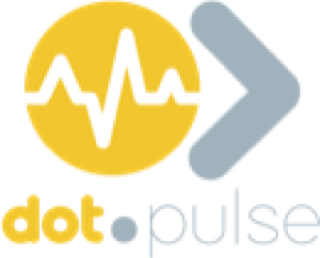
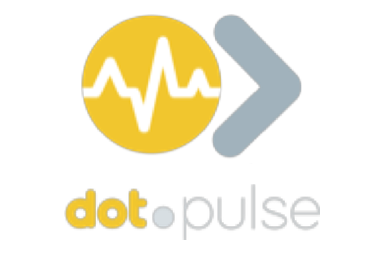
R-58: a different South African photograph for every slot (#247)
* R-58: give every page its own South African photograph (no reuse); credits for all on the About page

* R-58: show a Cape Town produce stall, a real trading scene, in place of the Soweto street photo

* R-58: make the platform logos readable: lift only the wordmark pixels, keep brand colours, deeper tiles, two per row

* R-58: every platform logo at the same scale on the same canvas: equal icon, equal wordmark, round Tutor disc, no stretch or squeeze

* R-58: the build check expects the new home hero photographs

---------

diff --git a/resources/css/infodot.css b/resources/css/infodot.css
@@ -9778,8 +9778,8 @@ button.ix-avatar,
 .bt-tool__id img {
     display: block;
     width: auto;
-    height: 40px;
-    max-width: 170px;
+    height: 72px;
+    max-width: 120px;
     object-fit: contain;
 }
 
@@ -10629,9 +10629,11 @@ button.ix-avatar,
 .hp-pillar--grow .hp-pillar__plate { background-image: var(--pillar-img, none); background-size: cover; background-position: center; }
 
 /* The platform logos have thin, pale wordmarks: bigger tiles and a lift in brightness let every name read at full strength on the graphite ground. */
-.hp-group .lp-logos { grid-template-columns: repeat(auto-fill, minmax(150px, 1fr)); }
-.hp-group .lp-logos li { height: 104px; }
-.hp-group .lp-logos img { filter: brightness(1.35) contrast(1.08); }
+.hp-group .lp-logos { grid-template-columns: repeat(auto-fill, minmax(150px, 1fr)); gap: 14px; }
+/* Every logo file is drawn on the same canvas at the same scale (round icon, same-size wordmark), so each tile just shows the file at its natural proportions: nothing is stretched or squeezed. */
+.hp-group .lp-logos li { height: auto; aspect-ratio: 3 / 2; background: #080b0d; box-shadow: inset 0 0 0 1px rgb(255 255 255 / 0.08); transition: box-shadow 0.2s ease, translate 0.2s ease; }
+.hp-group .lp-logos li:hover { box-shadow: inset 0 0 0 1px #eab31f; translate: 0 -2px; }
+.hp-group .lp-logos img { top: 6px; right: 6px; bottom: 6px; left: 6px; width: calc(100% - 12px); height: calc(100% - 12px); object-fit: contain; filter: none; }
 
 /* Links in running text read as links: underlined at rest, in the page's own link colour. */
 .ix-prose p a,

diff --git a/resources/views/about.blade.php b/resources/views/about.blade.php
@@ -5,7 +5,7 @@
         <p class="ix-lede" data-pg-in>InfoDot helps people start, manage and grow their businesses. It brings together practical business knowledge, people who share what works, and digital tools in one place, so nobody has to work it all out alone.</p>
 
         <figure class="pg-strip" data-pg-photo>
-            <img src="{{ \Illuminate\Support\Facades\Vite::asset('resources/img/landing/seamstress.jpg') }}" alt="A seamstress at her sewing machine in a shop full of printed fabric" width="1200" height="800" loading="eager" decoding="async">
+            <img src="{{ \Illuminate\Support\Facades\Vite::asset('resources/img/landing/market.jpg') }}" alt="Colourful shirts and dresses hanging at a market stall in Cape Town" width="1400" height="1050" loading="eager" decoding="async">
         </figure>
 
         <h2>Why it exists</h2>
@@ -35,19 +35,25 @@
         </ul>
 
         <h2 id="photo-credits">Photograph credits</h2>
-        <p>Some photographs on the Contact, Businesses, home and What InfoDot does pages come from Unsplash and are used under the <a href="https://unsplash.com/license" rel="noopener">Unsplash licence</a>. Each was cropped and resized.</p>
+        <p>Every photograph on InfoDot was taken in South Africa. Most come from Unsplash and are used under the <a href="https://unsplash.com/license" rel="noopener">Unsplash licence</a>; one comes from Wikimedia Commons. Each was cropped and resized. Where each one appears is noted after its title.</p>
         <ul>
-            <li><a href="https://unsplash.com/photos/woman-using-laptop-in-workspace-HA-0i0E7sq4" rel="noopener">Woman using laptop in workspace</a> by Daniel Thomas</li>
-            <li><a href="https://unsplash.com/photos/a-group-of-colorful-bags-sitting-on-top-of-a-table-9o5zeS6QbgM" rel="noopener">Rosebank Sunday Market in Johannesburg</a> by Vije Vijendranath</li>
-            <li><a href="https://unsplash.com/photos/two-women-near-tables-GFrBMipOd_E" rel="noopener">Two women near tables</a> by Blake Wisz</li>
-            <li><a href="https://unsplash.com/photos/a-person-sitting-at-a-table-with-a-laptop-oUbzU87d1Gc" rel="noopener">A person sitting at a table with a laptop</a> by Microsoft 365</li>
+            <li><a href="https://unsplash.com/photos/a-group-of-colorful-bags-sitting-on-top-of-a-table-9o5zeS6QbgM" rel="noopener">Rosebank Sunday Market, Johannesburg</a> by Vije Vijendranath (home page)</li>
+            <li><a href="https://unsplash.com/photos/johannesburg-skyline-at-golden-hour-_h-L45TSmGM" rel="noopener">Johannesburg skyline at golden hour</a> by Simon Hurry (home page)</li>
+            <li><a href="https://unsplash.com/photos/ODZIiIsn490" rel="noopener">Bo-Kaap, Cape Town</a> by Devon Janse van Rensburg (home page)</li>
+            <li><a href="https://unsplash.com/photos/tCLU5Ofe-Dg" rel="noopener">Kalk Bay Trading Post sign</a> by ryan mayes (home page)</li>
+            <li><a href="https://unsplash.com/photos/2GZvGZh4dJc" rel="noopener">Vineyard rows near Stellenbosch</a> by Nenad Gataric (home page)</li>
+            <li><a href="https://unsplash.com/photos/C77n2yK8brk" rel="noopener">Goods market, Cape Town</a> by FitNish Media (home page)</li>
+            <li><a href="https://unsplash.com/photos/y0njljTYxHA" rel="noopener">Market stall, Cape Town</a> by FitNish Media (home page)</li>
+            <li><a href="https://unsplash.com/photos/ime_dBOnmwY" rel="noopener">Fishing boats at Kalk Bay</a> by M Lagan (home page)</li>
+            <li><a href="https://unsplash.com/photos/mQ2mZMcI1dc" rel="noopener">Produce stall, Cape Town market</a> by FitNish Media (home page)</li>
+            <li><a href="https://unsplash.com/photos/hgm1xkVxsX0" rel="noopener">Outdoor cafe, Cape Town</a> by Mario Scheibl (Contact)</li>
+            <li><a href="https://unsplash.com/photos/NLVj-FTLwu4" rel="noopener">Stained glass door at a Cape Town market</a> by Amy Harrison (Businesses)</li>
+            <li><a href="https://unsplash.com/photos/xvJVDUoGpoU" rel="noopener">Johannesburg views</a> by Clodagh Da Paixao (What InfoDot does)</li>
+            <li><a href="https://unsplash.com/photos/D4l8jOd-7jI" rel="noopener">Bo-Kaap street and mural</a> by Nigel SB Photography (Questions people ask)</li>
         </ul>
-        <p>The other photographs, on the home and About pages, come from Wikimedia Commons. Each was cropped and resized, and each is shared under the Creative Commons Attribution-ShareAlike 4.0 licence (<a href="https://creativecommons.org/licenses/by-sa/4.0/" rel="noopener">CC BY-SA 4.0</a>).</p>
+        <p>On the home page and About page, one photograph comes from Wikimedia Commons under the Creative Commons Attribution-ShareAlike 4.0 licence (<a href="https://creativecommons.org/licenses/by-sa/4.0/" rel="noopener">CC BY-SA 4.0</a>):</p>
         <ul>
-            <li><a href="https://commons.wikimedia.org/wiki/File:Openspace_wao_coworking.jpg" rel="noopener">"Openspace wao coworking"</a> by WAO Coworking</li>
-            <li><a href="https://commons.wikimedia.org/wiki/File:A_seamstress_at_work.jpg" rel="noopener">"A seamstress at work"</a> by Rwebogora</li>
-            <li><a href="https://commons.wikimedia.org/wiki/File:Couturi%C3%A8re_3.jpg" rel="noopener">"Couturière 3"</a> by Metchyves</li>
-            <li><a href="https://commons.wikimedia.org/wiki/File:Greenmarket,_Cape_Town_(P1050987).jpg" rel="noopener">"Greenmarket, Cape Town"</a> by Matti Blume</li>
+            <li><a href="https://commons.wikimedia.org/wiki/File:Greenmarket,_Cape_Town_(P1050987).jpg" rel="noopener">"Greenmarket, Cape Town"</a> by Matti Blume (About)</li>
         </ul>
 
         <h2>Get in touch</h2>

diff --git a/resources/views/partials/home-hero.blade.php b/resources/views/partials/home-hero.blade.php
@@ -1,7 +1,7 @@
 <section class="lp-hero hd" data-hd data-scene="b" aria-labelledby="hero-title">
     <div class="hd__stage" aria-hidden="true">
         <div class="hd__scene hd__scene--a" data-scene-id="a">
-            <img src="{{ \Illuminate\Support\Facades\Vite::asset('resources/img/pages/directory-1600.jpg') }}" srcset="{{ \Illuminate\Support\Facades\Vite::asset('resources/img/pages/directory-800.jpg') }} 800w, {{ \Illuminate\Support\Facades\Vite::asset('resources/img/pages/directory-1600.jpg') }} 1600w" sizes="100vw" alt="" width="1600" height="1067" decoding="async">
+            <img src="{{ \Illuminate\Support\Facades\Vite::asset('resources/img/pages/jhb-skyline-1920.jpg') }}" srcset="{{ \Illuminate\Support\Facades\Vite::asset('resources/img/pages/jhb-skyline-960.jpg') }} 960w, {{ \Illuminate\Support\Facades\Vite::asset('resources/img/pages/jhb-skyline-1920.jpg') }} 1920w" sizes="100vw" alt="" width="1920" height="1280" decoding="async">
         </div>
         <div class="hd__scene hd__scene--b" data-scene-id="b">
             <div class="hd__ground">
@@ -9,15 +9,15 @@
                 <span class="ix-stamp hd__stamp">Solved</span>
             </div>
             <figure class="hd__photo">
-                <img src="{{ \Illuminate\Support\Facades\Vite::asset('resources/img/pages/directory-1600.jpg') }}" srcset="{{ \Illuminate\Support\Facades\Vite::asset('resources/img/pages/directory-800.jpg') }} 800w, {{ \Illuminate\Support\Facades\Vite::asset('resources/img/pages/directory-1600.jpg') }} 1600w" sizes="(max-width: 900px) 100vw, 50vw" alt="" width="1600" height="1067" decoding="async" fetchpriority="high">
+                <img src="{{ \Illuminate\Support\Facades\Vite::asset('resources/img/pages/rosebank-1600.jpg') }}" srcset="{{ \Illuminate\Support\Facades\Vite::asset('resources/img/pages/rosebank-800.jpg') }} 800w, {{ \Illuminate\Support\Facades\Vite::asset('resources/img/pages/rosebank-1600.jpg') }} 1600w" sizes="(max-width: 900px) 100vw, 50vw" alt="" width="1600" height="1067" decoding="async" fetchpriority="high">
             </figure>
         </div>
         <div class="hd__scene hd__scene--c" data-scene-id="c">
             <div class="hd__ground"></div>
             <ul class="hd__tiles" role="presentation">
-                <li class="hd__tile hd__tile--1"><img src="{{ \Illuminate\Support\Facades\Vite::asset('resources/img/pages/features-800.jpg') }}" alt="" width="800" height="533" decoding="async"><span class="pg-plate" style="--pg-tone: var(--ix-knowledge)">Discover</span></li>
-                <li class="hd__tile hd__tile--2"><img src="{{ \Illuminate\Support\Facades\Vite::asset('resources/img/pages/directory-800.jpg') }}" alt="" width="800" height="533" decoding="async"><span class="pg-plate pg-plate--mustard" style="--pg-tone: var(--ix-platforms)">Manage</span></li>
-                <li class="hd__tile hd__tile--3"><img src="{{ \Illuminate\Support\Facades\Vite::asset('resources/img/landing/seamstress.jpg') }}" alt="" width="1200" height="800" decoding="async"><span class="pg-plate" style="--pg-tone: var(--ix-documents)">Grow</span></li>
+                <li class="hd__tile hd__tile--1"><img src="{{ \Illuminate\Support\Facades\Vite::asset('resources/img/pages/bokaap-street-800.jpg') }}" alt="" width="800" height="533" decoding="async"><span class="pg-plate" style="--pg-tone: var(--ix-knowledge)">Discover</span></li>
+                <li class="hd__tile hd__tile--2"><img src="{{ \Illuminate\Support\Facades\Vite::asset('resources/img/pages/kalkbay-sign-800.jpg') }}" alt="" width="800" height="533" decoding="async"><span class="pg-plate pg-plate--mustard" style="--pg-tone: var(--ix-platforms)">Manage</span></li>
+                <li class="hd__tile hd__tile--3"><img src="{{ \Illuminate\Support\Facades\Vite::asset('resources/img/pages/vineyard-800.jpg') }}" alt="" width="800" height="533" decoding="async"><span class="pg-plate" style="--pg-tone: var(--ix-documents)">Grow</span></li>
             </ul>
         </div>
     </div>

diff --git a/resources/views/welcome.blade.php b/resources/views/welcome.blade.php
@@ -54,7 +54,7 @@
 
         <div class="hp-pillars__list">
             <article class="hp-pillar hp-pillar--discover" id="discover" data-pillar aria-labelledby="discover-title">
-                <h3 id="discover-title" class="hp-pillar__plate" style="--pillar-img: url('{{ \Illuminate\Support\Facades\Vite::asset('resources/img/pages/features-800.jpg') }}')"><span class="hp-pillar__word">Discover</span><span class="hp-pillar__tag">Learn what works</span></h3>
+                <h3 id="discover-title" class="hp-pillar__plate" style="--pillar-img: url('{{ \Illuminate\Support\Facades\Vite::asset('resources/img/pages/market-jars-800.jpg') }}')"><span class="hp-pillar__word">Discover</span><span class="hp-pillar__tag">Learn what works</span></h3>
                 <div class="hp-pillar__body">
                     <p class="hp-pillar__lede" data-reveal>Find practical answers, business guides, proven solutions and experiences shared by other entrepreneurs and businesses.</p>
                     <ul class="lp-checks hp-pillar__list">
@@ -81,7 +81,7 @@
             </article>
 
             <article class="hp-pillar hp-pillar--manage" id="manage" data-pillar aria-labelledby="manage-title">
-                <h3 id="manage-title" class="hp-pillar__plate" style="--pillar-img: url('{{ \Illuminate\Support\Facades\Vite::asset('resources/img/pages/pillar-manage-800.jpg') }}')"><span class="hp-pillar__word">Manage</span><span class="hp-pillar__tag">Run your business</span></h3>
+                <h3 id="manage-title" class="hp-pillar__plate" style="--pillar-img: url('{{ \Illuminate\Support\Facades\Vite::asset('resources/img/pages/market-burger-800.jpg') }}')"><span class="hp-pillar__word">Manage</span><span class="hp-pillar__tag">Run your business</span></h3>
                 <div class="hp-pillar__body">
                     <p class="hp-pillar__lede" data-reveal>Access the digital tools you need to organise, manage and operate your business from one connected ecosystem.</p>
                     <ul class="lp-checks hp-pillar__list">
@@ -98,7 +98,7 @@
             </article>
 
             <article class="hp-pillar hp-pillar--grow" id="grow" data-pillar aria-labelledby="grow-title">
-                <h3 id="grow-title" class="hp-pillar__plate" style="--pillar-img: url('{{ \Illuminate\Support\Facades\Vite::asset('resources/img/landing/market.jpg') }}')"><span class="hp-pillar__word">Grow</span><span class="hp-pillar__tag">Build your future</span></h3>
+                <h3 id="grow-title" class="hp-pillar__plate" style="--pillar-img: url('{{ \Illuminate\Support\Facades\Vite::asset('resources/img/pages/kalkbay-boats-800.jpg') }}')"><span class="hp-pillar__word">Grow</span><span class="hp-pillar__tag">Build your future</span></h3>
                 <div class="hp-pillar__body">
                     <p class="hp-pillar__lede" data-reveal>Use knowledge, connected tools and shared experiences to improve how you work, make better decisions and discover opportunities to grow.</p>
                     <ul class="lp-checks hp-pillar__list">
@@ -240,7 +240,7 @@
     <section class="lp-split hp-who" aria-labelledby="who-title">
         <figure class="lp-photo" data-reveal>
             <div class="lp-photo__frame" data-parallax>
-                <img src="{{ \Illuminate\Support\Facades\Vite::asset('resources/img/landing/seamstress.jpg') }}" width="1200" height="800" alt="A seamstress at her sewing machine, with racks of colourful fabric behind her" loading="lazy" decoding="async">
+                <img src="{{ \Illuminate\Support\Facades\Vite::asset('resources/img/pages/market-vegetables-1200.jpg') }}" width="1200" height="800" alt="A vegetable stall at a Cape Town market: tomatoes, avocados, fennel, radishes and herbs in boxes" loading="lazy" decoding="async">
             </div>
         </figure>
         <div class="lp-split__body">

diff --git a/tests/Feature/PublicPagesTest.php b/tests/Feature/PublicPagesTest.php
@@ -149,7 +149,7 @@ class PublicPagesTest extends TestCase
     {
         $about = $this->get('/about')->assertOk()->getContent();
 
-        foreach (['WAO Coworking', 'Rwebogora', 'Metchyves', 'Matti Blume', 'CC BY-SA 4.0'] as $credit) {
+        foreach (['Vije Vijendranath', 'Simon Hurry', 'Matti Blume', 'CC BY-SA 4.0', 'Unsplash licence'] as $credit) {
             $this->assertStringContainsString($credit, $about);
         }
         $this->assertStringContainsString('id="photo-credits"', $about);
@@ -286,11 +286,11 @@ class PublicPagesTest extends TestCase
         // An image kept anywhere else in public/ would be a 404 on the live site. (The committed manifest is stale by design, so the
         // source of the build is checked rather than the manifest.)
         $app = (string) file_get_contents(resource_path('js/app.js'));
-        foreach (['../img/landing/*.jpg', '../img/landing/platforms/*.png', '../img/arrow-mask.png'] as $glob) {
+        foreach (['../img/landing/*.jpg', '../img/pages/*.jpg', '../img/landing/platforms/*.png', '../img/arrow-mask.png'] as $glob) {
             $this->assertStringContainsString($glob, $app, $glob.' is not globbed into the build');
         }
 
-        foreach (['arrow-mask.png', 'landing/hero-1920.jpg', 'landing/hero-960.jpg', 'landing/seamstress.jpg', 'landing/couturiere.jpg', 'landing/market.jpg', 'landing/platforms/files.png'] as $file) {
+        foreach (['arrow-mask.png', 'landing/market.jpg', 'landing/platforms/files.png', 'pages/jhb-skyline-1920.jpg', 'pages/rosebank-1600.jpg', 'pages/market-vegetables-1200.jpg', 'pages/market-door-1600.jpg', 'pages/bokaap-mural-1600.jpg', 'pages/jhb-city-1600.jpg', 'pages/camps-bay-cafe-1600.jpg'] as $file) {
             $this->assertFileExists(resource_path('img/'.$file));
         }
         $this->assertDirectoryDoesNotExist(public_path('img/landing'), 'landing images belong in resources/img so they ship with the build');

diff --git a/tests/Feature/PublicDesignR57Test.php b/tests/Feature/PublicDesignR57Test.php
@@ -40,7 +40,7 @@ class PublicDesignR57Test extends TestCase
     {
         $about = $this->get('/about')->assertOk()->getContent();
 
-        foreach (['Daniel Thomas', 'Vije Vijendranath', 'Blake Wisz', 'Microsoft 365'] as $author) {
+        foreach (['Vije Vijendranath', 'Simon Hurry', 'Mario Scheibl', 'Amy Harrison', 'Clodagh Da Paixao', 'Nigel SB Photography', 'FitNish Media'] as $author) {
             $this->assertStringContainsString($author, $about, "{$author} is credited");
         }
         $this->assertStringContainsString('unsplash.com/license', $about);
@@ -98,5 +98,25 @@ class PublicDesignR57Test extends TestCase
 
         $js = (string) file_get_contents(resource_path('js/landing.js'));
         $this->assertStringContainsString('userPaused = reduce', $js, 'nothing changes by itself when motion is reduced');
+    }
+
+    public function test_no_photograph_is_used_in_two_places(): void
+    {
+        $files = array_merge(
+            glob(resource_path('views/*.blade.php')) ?: [],
+            glob(resource_path('views/partials/home-hero*.blade.php')) ?: [],
+            glob(resource_path('views/businesses/index.blade.php')) ?: [],
+        );
+        $uses = [];
+        foreach ($files as $file) {
+            preg_match_all('#resources/img/(?:pages|landing)/([a-z0-9-]+?)(?:-\d+)?\.jpg#', (string) file_get_contents($file), $m);
+            foreach (array_unique($m[1]) as $name) {
+                $uses[$name][] = basename($file);
+            }
+        }
+        foreach ($uses as $name => $where) {
+            $this->assertCount(1, array_unique($where), "the photograph {$name} appears in more than one place: ".implode(', ', array_unique($where)));
+        }
+        $this->assertGreaterThanOrEqual(12, count($uses), 'the pages use a spread of different photographs');
     }
 }

diff --git a/resources/views/businesses/index.blade.php b/resources/views/businesses/index.blade.php
@@ -96,7 +96,7 @@
         @endif
     </header>
     <figure class="pg-photo" data-pg-photo>
-        <img src="{{ \Illuminate\Support\Facades\Vite::asset('resources/img/pages/directory-1600.jpg') }}" srcset="{{ \Illuminate\Support\Facades\Vite::asset('resources/img/pages/directory-800.jpg') }} 800w, {{ \Illuminate\Support\Facades\Vite::asset('resources/img/pages/directory-1600.jpg') }} 1600w" sizes="(max-width: 900px) 100vw, 40vw" alt="Colourful African print bags on a market table, a trader behind them, at Rosebank Sunday Market in Johannesburg" width="1600" height="1067" decoding="async">
+        <img src="{{ \Illuminate\Support\Facades\Vite::asset('resources/img/pages/market-door-1600.jpg') }}" srcset="{{ \Illuminate\Support\Facades\Vite::asset('resources/img/pages/market-door-800.jpg') }} 800w, {{ \Illuminate\Support\Facades\Vite::asset('resources/img/pages/market-door-1600.jpg') }} 1600w" sizes="(max-width: 900px) 100vw, 40vw" alt="A pine door with stained glass leaning against a car at an outdoor market in Cape Town" width="1600" height="1067" decoding="async">
     </figure>
     </div>
 

diff --git a/resources/views/contact.blade.php b/resources/views/contact.blade.php
@@ -17,7 +17,7 @@
             <p class="pg-hero__lede" data-pg-in>Questions, ideas and concerns about InfoDot are welcome. Choose the lane that fits and your message reaches the right place first.</p>
         </div>
         <figure class="pg-photo" data-pg-photo>
-            <img src="{{ $img('contact-1600') }}" srcset="{{ $img('contact-800') }} 800w, {{ $img('contact-1600') }} 1600w" sizes="(max-width: 900px) 100vw, 40vw" alt="A woman in a mustard cardigan working on a laptop at a dark desk by a window" width="1600" height="1067" decoding="async">
+            <img src="{{ $img('camps-bay-cafe-1600') }}" srcset="{{ $img('camps-bay-cafe-800') }} 800w, {{ $img('camps-bay-cafe-1600') }} 1600w" sizes="(max-width: 900px) 100vw, 40vw" alt="People gathered at a Cape Town outdoor cafe with the mountain behind them" width="1600" height="1067" decoding="async">
         </figure>
     </section>
 

diff --git a/resources/views/features.blade.php b/resources/views/features.blade.php
@@ -5,7 +5,7 @@
         <p class="ix-lede" data-pg-in>Everything on this page works today. InfoDot has three jobs: help you discover what works, manage your business with connected tools, and grow with what you learn.</p>
 
         <figure class="pg-strip" data-pg-photo>
-            <img src="{{ \Illuminate\Support\Facades\Vite::asset('resources/img/pages/features-1600.jpg') }}" alt="A desk seen from above: a laptop with a spreadsheet, a calculator, invoices and a notebook" width="1600" height="1067" loading="eager" decoding="async">
+            <img src="{{ \Illuminate\Support\Facades\Vite::asset('resources/img/pages/jhb-city-1600.jpg') }}" alt="The Johannesburg city centre at sunset, seen from above" width="1600" height="1067" loading="eager" decoding="async">
         </figure>
 
         <ul class="pg-vignettes" role="list" aria-label="Three things you will see on InfoDot">

diff --git a/resources/views/faqs.blade.php b/resources/views/faqs.blade.php
@@ -38,7 +38,7 @@
         <h1 class="ix-h1 pg-title" data-pg-in>Questions people ask</h1>
         <p class="ix-lede" data-pg-in>Straight answers about what InfoDot is, who can see what you write and how answers are checked.</p>
         <figure class="pg-strip" data-pg-photo>
-            <img src="{{ \Illuminate\Support\Facades\Vite::asset('resources/img/pages/faqs-1600.jpg') }}" alt="Two women at a shop counter with a card reader, a salon behind them" width="1600" height="1067" loading="eager" decoding="async">
+            <img src="{{ \Illuminate\Support\Facades\Vite::asset('resources/img/pages/bokaap-mural-1600.jpg') }}" alt="A Bo-Kaap street in Cape Town, painted houses and a mural of a footballer" width="1600" height="1067" loading="eager" decoding="async">
         </figure>
 
         @foreach ($faqs as [$question, $answer])

diff --git a/tests/Feature/SelfHostedAssetsTest.php b/tests/Feature/SelfHostedAssetsTest.php
@@ -219,8 +219,8 @@ class SelfHostedAssetsTest extends TestCase
 
         // The home page's photographs are still credited where they are used.
         $this->get('/about')->assertOk()
-            ->assertSee('The other photographs, on the home and About pages, come from Wikimedia Commons')
-            ->assertSee('by WAO Coworking')
+            ->assertSee('one comes from Wikimedia Commons')
+            ->assertSee('by Matti Blume')
             ->assertDontSee('sign-in pages');
     }
 
